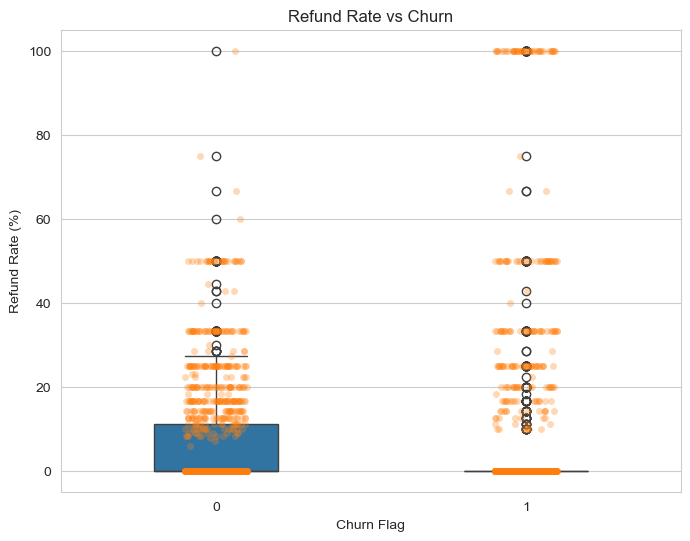
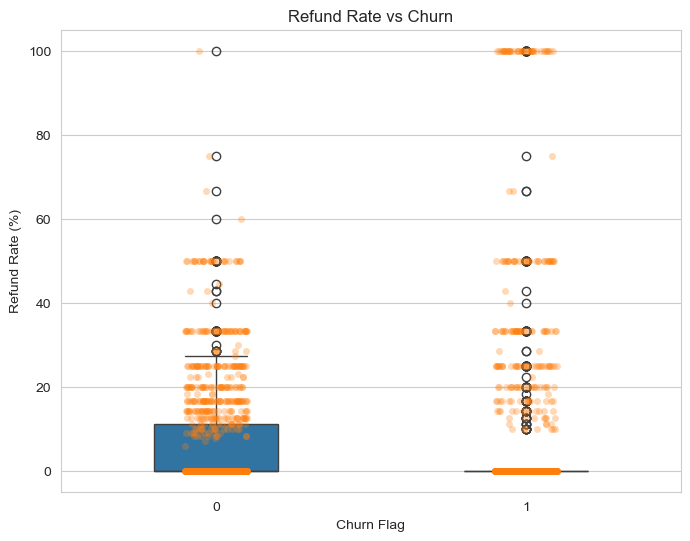
EDA new risk hypothesis analysis changes.

diff --git a/README.md b/README.md
@@ -195,19 +195,37 @@ jupyter notebook eda_audit.ipynb
 
 ---
 
-## Future Enhancements
+## Following up flows and Future Enhancements 
+ 
+ ## Following up integration after EDA analysis
 
-- Churn Prediction Model
-- Customer Segmentation using Clustering
-- Retention Strategy Recommendation Engine
+   - Churn Prediction Model
+   - Customer Segmentation using Clustering
+   - Retention Strategy Recommendation Engine
+
+  ## Future Enhancement
+
 - Automated EDA Dashboard
 - Real-Time Churn Monitoring
 
 ---
 
+## EDA part structure
+  
+## Required notebook/scripts for EDA part
+  
+ - eda_audit.ipynb under d2churn-eda/
+ - charts which are required output for the business analysis generates automated sliced pictures of important analyzed outputs within charts   
+    folder.This can be seen under d2churn-eda/
+ - Other outputs can be obtained under d2churn-eda/outputs folder
+ - .env files are maintained to provide abstraction and safety not to expose absolute paths and relative paths required for      
+    important  tasks like loading/path from which data can be downloaded
+ - Code supports both local file based data loading as well automated download and has been actively tried to check working in     
+    user's virtual environment as well as google collab specifically as an additional check for testing/validation to quickly happen utilizing multi platform support.
+
 ## Author
 
-**Piyush Pandey**
+**Piyush Kant Pandey**
 
 Data Science | Machine Learning | Generative AI
 
